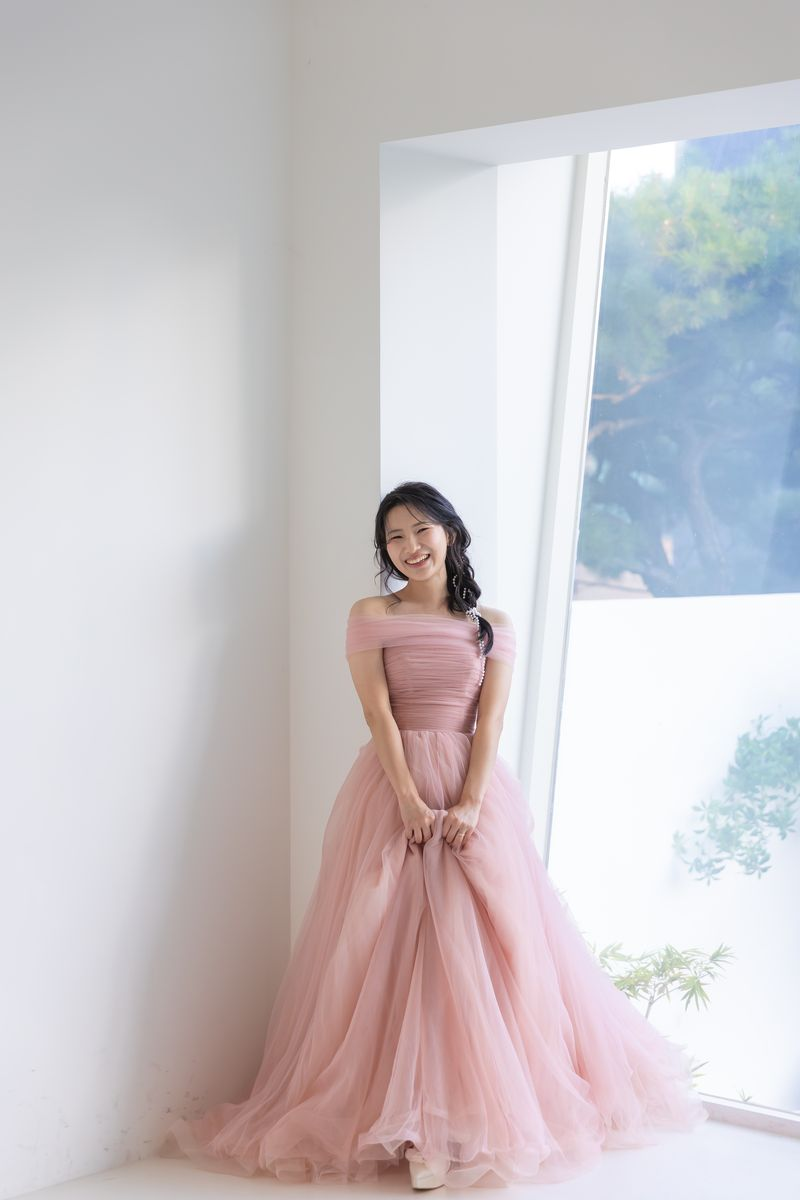
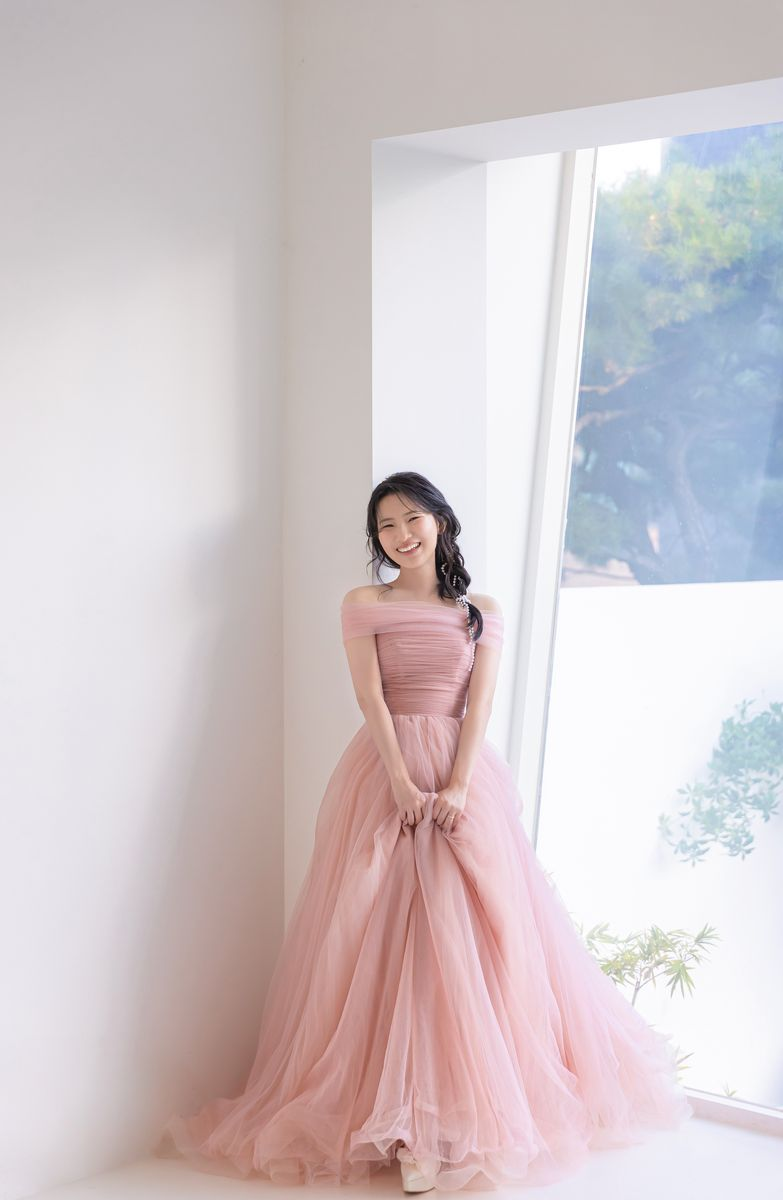
사진 COLOR2 보정본 적용, 계좌번호·소개글·참석 응답 연동 반영
- 메인 + 갤러리 23장을 COLOR2 보정본으로 교체, OG 썸네일 갱신
- 양가 계좌 6건 실제 번호 반영
- 신랑·신부 소개글 추가, 연락하기 섹션 제거
- 참석 여부(RSVP) 응답을 Apps Script 통해 구글 시트에 저장

diff --git a/index.html b/index.html
@@ -129,6 +129,11 @@ h2::after{content:""; display:block; width:40px; height:2px; background:var(--in
 .cast .name{font-family:var(--disp); font-size:30px; line-height:1.1; margin:8px 0 2px}
 .cast .krn{font-size:16px; font-weight:600; letter-spacing:.14em; text-indent:.14em}
 .cast small{display:block; font-size:12.5px; color:var(--ink-soft); margin-top:8px; line-height:1.7}
+.cast .intro{margin-top:26px; text-align:left; padding:0 4px}
+.cast .intro + .intro{margin-top:22px; padding-top:22px; border-top:1px dashed var(--line)}
+.cast .intro .who{font-family:var(--sans); font-weight:500; font-size:12px; color:var(--red); letter-spacing:.06em; margin-bottom:6px; line-height:1.4}
+.cast .intro .who::before{content:"❝"; font-family:var(--disp); font-size:16px; margin-right:6px; color:var(--red)}
+.cast .intro .txt{font-family:var(--sans); font-weight:300; font-size:14px; line-height:1.95; color:var(--ink); word-break:keep-all; text-wrap:pretty}
 
 /* ── screening (calendar) ── */
 .cal-head{font-family:var(--disp); font-size:34px; line-height:1; margin-bottom:6px}
@@ -365,7 +370,7 @@ footer .date{font-family:var(--cond); font-size:11px; letter-spacing:.3em; color
       </div>
     </div>
 
-    <!-- photos/main-zoom.jpg = 6R6A4831.jpg 1.25배 크롭 (전체 컷은 photos/main.jpg) -->
+    <!-- photos/main-zoom.jpg = COLOR2 보정본 6R6A4831 1.25배 크롭 -->
     <div class="screen">
       <img src="photos/main-zoom.jpg" alt="조한용 · 한세정">
       <p class="hand" aria-label="We're getting married">We're getting<br>married</p>
@@ -405,6 +410,14 @@ footer .date{font-family:var(--cond); font-size:11px; letter-spacing:.3em; color
         <small>한상득 · 유난미의<br>딸</small>
       </div>
     </div>
+    <div class="intro">
+      <p class="who">신부가 소개하는 신랑</p>
+      <p class="txt">제 신랑은 겉으로는 무심해 보여도, 알고 보면 언제나 저를 가장 먼저 생각해주는 따뜻한 사람이에요. 잔걱정이 많은 저와 달리 무던하고 묵묵하게 제 곁을 지키며 늘 든든한 중심이 되어주는 사람입니다. 언제든 의지할 수 있고, 함께 있으면 자연스럽게 웃게 되는 이 사람과 평생을 함께하려 합니다.</p>
+    </div>
+    <div class="intro">
+      <p class="who">신랑이 소개하는 신부</p>
+      <p class="txt">제 신부는 누가 봐도 귀엽고 여리지만, 사실 누구보다 똑 부러지는 사람이에요. 준비하고 계획하는 걸 잘해서, 덕분에 결혼 준비를 비롯한 여러 일들을 든든하게 해낼 수 있었습니다. 저만 있었다면… 생각만 해도 아찔하네요. 늘 배려심이 많고 저를 먼저 생각해주는 고마운 사람입니다. 함께하는 평범한 시간마저 소중하게 만들어주는 이 사람과 평생을 함께하려 합니다.</p>
+    </div>
   </section>
 
   <section class="screening reveal">
@@ -432,31 +445,31 @@ footer .date{font-family:var(--cond); font-size:11px; letter-spacing:.3em; color
   <section class="stills reveal">
     <p class="slug">Moments</p>
     <h2>미리 보는 장면들</h2>
-    <!-- photos/gallery-web/ = photos/Gallery/ 원본을 긴 변 1200px로 축소한 웹용 (이름순) -->
+    <!-- photos/gallery-web/ = photos/COLOR2/ 보정본을 긴 변 1200px로 축소한 웹용 (이름순) -->
     <div class="filmstrip"><div class="strip-inner">
-        <div class="cell port"><div class="img"><img src="photos/gallery-web/01.jpg" alt="" loading="lazy"></div><p class="cap"><span>SCENE 01</span><span>01 / 23</span></p></div>
-        <div class="cell port"><div class="img"><img src="photos/gallery-web/02.jpg" alt="" loading="lazy"></div><p class="cap"><span>SCENE 02</span><span>02 / 23</span></p></div>
-        <div class="cell port"><div class="img"><img src="photos/gallery-web/03.jpg" alt="" loading="lazy"></div><p class="cap"><span>SCENE 03</span><span>03 / 23</span></p></div>
-        <div class="cell port"><div class="img"><img src="photos/gallery-web/04.jpg" alt="" loading="lazy"></div><p class="cap"><span>SCENE 04</span><span>04 / 23</span></p></div>
-        <div class="cell land"><div class="img"><img src="photos/gallery-web/05.jpg" alt="" loading="lazy"></div><p class="cap"><span>SCENE 05</span><span>05 / 23</span></p></div>
-        <div class="cell land"><div class="img"><img src="photos/gallery-web/06.jpg" alt="" loading="lazy"></div><p class="cap"><span>SCENE 06</span><span>06 / 23</span></p></div>
-        <div class="cell land"><div class="img"><img src="photos/gallery-web/07.jpg" alt="" loading="lazy"></div><p class="cap"><span>SCENE 07</span><span>07 / 23</span></p></div>
-        <div class="cell port"><div class="img"><img src="photos/gallery-web/08.jpg" alt="" loading="lazy"></div><p class="cap"><span>SCENE 08</span><span>08 / 23</span></p></div>
-        <div class="cell port"><div class="img"><img src="photos/gallery-web/09.jpg" alt="" loading="lazy"></div><p class="cap"><span>SCENE 09</span><span>09 / 23</span></p></div>
-        <div class="cell land"><div class="img"><img src="photos/gallery-web/10.jpg" alt="" loading="lazy"></div><p class="cap"><span>SCENE 10</span><span>10 / 23</span></p></div>
-        <div class="cell port"><div class="img"><img src="photos/gallery-web/11.jpg" alt="" loading="lazy"></div><p class="cap"><span>SCENE 11</span><span>11 / 23</span></p></div>
-        <div class="cell port"><div class="img"><img src="photos/gallery-web/12.jpg" alt="" loading="lazy"></div><p class="cap"><span>SCENE 12</span><span>12 / 23</span></p></div>
-        <div class="cell land"><div class="img"><img src="photos/gallery-web/13.jpg" alt="" loading="lazy"></div><p class="cap"><span>SCENE 13</span><span>13 / 23</span></p></div>
-        <div class="cell port"><div class="img"><img src="photos/gallery-web/14.jpg" alt="" loading="lazy"></div><p class="cap"><span>SCENE 14</span><span>14 / 23</span></p></div>
-        <div class="cell port"><div class="img"><img src="photos/gallery-web/15.jpg" alt="" loading="lazy"></div><p class="cap"><span>SCENE 15</span><span>15 / 23</span></p></div>
-        <div class="cell port"><div class="img"><img src="photos/gallery-web/16.jpg" alt="" loading="lazy"></div><p class="cap"><span>SCENE 16</span><span>16 / 23</span></p></div>
-        <div class="cell port"><div class="img"><img src="photos/gallery-web/17.jpg" alt="" loading="lazy"></div><p class="cap"><span>SCENE 17</span><span>17 / 23</span></p></div>
-        <div class="cell port"><div class="img"><img src="photos/gallery-web/18.jpg" alt="" loading="lazy"></div><p class="cap"><span>SCENE 18</span><span>18 / 23</span></p></div>
-        <div class="cell port"><div class="img"><img src="photos/gallery-web/19.jpg" alt="" loading="lazy"></div><p class="cap"><span>SCENE 19</span><span>19 / 23</span></p></div>
-        <div class="cell port"><div class="img"><img src="photos/gallery-web/20.jpg" alt="" loading="lazy"></div><p class="cap"><span>SCENE 20</span><span>20 / 23</span></p></div>
-        <div class="cell port"><div class="img"><img src="photos/gallery-web/21.jpg" alt="" loading="lazy"></div><p class="cap"><span>SCENE 21</span><span>21 / 23</span></p></div>
-        <div class="cell port"><div class="img"><img src="photos/gallery-web/22.jpg" alt="" loading="lazy"></div><p class="cap"><span>SCENE 22</span><span>22 / 23</span></p></div>
-        <div class="cell port"><div class="img"><img src="photos/gallery-web/23.jpg" alt="" loading="lazy"></div><p class="cap"><span>SCENE 23</span><span>23 / 23</span></p></div>
+        <div class="cell"><div class="img"><img src="photos/gallery-web/01.jpg" alt="" loading="lazy"></div><p class="cap"><span>SCENE 01</span><span>01 / 23</span></p></div>
+        <div class="cell"><div class="img"><img src="photos/gallery-web/02.jpg" alt="" loading="lazy"></div><p class="cap"><span>SCENE 02</span><span>02 / 23</span></p></div>
+        <div class="cell"><div class="img"><img src="photos/gallery-web/03.jpg" alt="" loading="lazy"></div><p class="cap"><span>SCENE 03</span><span>03 / 23</span></p></div>
+        <div class="cell"><div class="img"><img src="photos/gallery-web/04.jpg" alt="" loading="lazy"></div><p class="cap"><span>SCENE 04</span><span>04 / 23</span></p></div>
+        <div class="cell"><div class="img"><img src="photos/gallery-web/05.jpg" alt="" loading="lazy"></div><p class="cap"><span>SCENE 05</span><span>05 / 23</span></p></div>
+        <div class="cell"><div class="img"><img src="photos/gallery-web/06.jpg" alt="" loading="lazy"></div><p class="cap"><span>SCENE 06</span><span>06 / 23</span></p></div>
+        <div class="cell"><div class="img"><img src="photos/gallery-web/07.jpg" alt="" loading="lazy"></div><p class="cap"><span>SCENE 07</span><span>07 / 23</span></p></div>
+        <div class="cell"><div class="img"><img src="photos/gallery-web/08.jpg" alt="" loading="lazy"></div><p class="cap"><span>SCENE 08</span><span>08 / 23</span></p></div>
+        <div class="cell"><div class="img"><img src="photos/gallery-web/09.jpg" alt="" loading="lazy"></div><p class="cap"><span>SCENE 09</span><span>09 / 23</span></p></div>
+        <div class="cell"><div class="img"><img src="photos/gallery-web/10.jpg" alt="" loading="lazy"></div><p class="cap"><span>SCENE 10</span><span>10 / 23</span></p></div>
+        <div class="cell"><div class="img"><img src="photos/gallery-web/11.jpg" alt="" loading="lazy"></div><p class="cap"><span>SCENE 11</span><span>11 / 23</span></p></div>
+        <div class="cell"><div class="img"><img src="photos/gallery-web/12.jpg" alt="" loading="lazy"></div><p class="cap"><span>SCENE 12</span><span>12 / 23</span></p></div>
+        <div class="cell"><div class="img"><img src="photos/gallery-web/13.jpg" alt="" loading="lazy"></div><p class="cap"><span>SCENE 13</span><span>13 / 23</span></p></div>
+        <div class="cell"><div class="img"><img src="photos/gallery-web/14.jpg" alt="" loading="lazy"></div><p class="cap"><span>SCENE 14</span><span>14 / 23</span></p></div>
+        <div class="cell"><div class="img"><img src="photos/gallery-web/15.jpg" alt="" loading="lazy"></div><p class="cap"><span>SCENE 15</span><span>15 / 23</span></p></div>
+        <div class="cell"><div class="img"><img src="photos/gallery-web/16.jpg" alt="" loading="lazy"></div><p class="cap"><span>SCENE 16</span><span>16 / 23</span></p></div>
+        <div class="cell"><div class="img"><img src="photos/gallery-web/17.jpg" alt="" loading="lazy"></div><p class="cap"><span>SCENE 17</span><span>17 / 23</span></p></div>
+        <div class="cell"><div class="img"><img src="photos/gallery-web/18.jpg" alt="" loading="lazy"></div><p class="cap"><span>SCENE 18</span><span>18 / 23</span></p></div>
+        <div class="cell"><div class="img"><img src="photos/gallery-web/19.jpg" alt="" loading="lazy"></div><p class="cap"><span>SCENE 19</span><span>19 / 23</span></p></div>
+        <div class="cell"><div class="img"><img src="photos/gallery-web/20.jpg" alt="" loading="lazy"></div><p class="cap"><span>SCENE 20</span><span>20 / 23</span></p></div>
+        <div class="cell"><div class="img"><img src="photos/gallery-web/21.jpg" alt="" loading="lazy"></div><p class="cap"><span>SCENE 21</span><span>21 / 23</span></p></div>
+        <div class="cell"><div class="img"><img src="photos/gallery-web/22.jpg" alt="" loading="lazy"></div><p class="cap"><span>SCENE 22</span><span>22 / 23</span></p></div>
+        <div class="cell"><div class="img"><img src="photos/gallery-web/23.jpg" alt="" loading="lazy"></div><p class="cap"><span>SCENE 23</span><span>23 / 23</span></p></div>
       </div></div>
     <p class="hint">◂ SWIPE ▸</p>
   </section>
@@ -483,13 +496,15 @@ footer .date{font-family:var(--cond); font-size:11px; letter-spacing:.3em; color
     <h2>마음 전하실 곳</h2>
     <details class="acct">
       <summary>신랑 측 계좌번호</summary>
-      <div class="acct-row"><span><span class="who">신랑 </span>조한용</span><span class="num">국민 123456-01-234567</span><button class="copy" data-num="국민 123456-01-234567">COPY</button></div>
-      <div class="acct-row"><span><span class="who">아버지 </span>조준호</span><span class="num">신한 110-234-567890</span><button class="copy" data-num="신한 110-234-567890">COPY</button></div>
+      <div class="acct-row"><span><span class="who">신랑 </span>조한용</span><span class="num">신한 110-446-442149</span><button class="copy" data-num="신한 110-446-442149">COPY</button></div>
+      <div class="acct-row"><span><span class="who">아버지 </span>조준호</span><span class="num">농협 235031-52-014161</span><button class="copy" data-num="농협 235031-52-014161">COPY</button></div>
+      <div class="acct-row"><span><span class="who">어머니 </span>서숙애</span><span class="num">신한 110-117-065369</span><button class="copy" data-num="신한 110-117-065369">COPY</button></div>
     </details>
     <details class="acct">
       <summary>신부 측 계좌번호</summary>
       <div class="acct-row"><span><span class="who">신부 </span>한세정</span><span class="num">농협 302-5113-7881-11</span><button class="copy" data-num="농협 302-5113-7881-11">COPY</button></div>
-      <div class="acct-row"><span><span class="who">어머니 </span>유난미</span><span class="num">우리 1002-345-678901</span><button class="copy" data-num="우리 1002-345-678901">COPY</button></div>
+      <div class="acct-row"><span><span class="who">아버지 </span>한상득</span><span class="num">농협 735089-52-096901</span><button class="copy" data-num="농협 735089-52-096901">COPY</button></div>
+      <div class="acct-row"><span><span class="who">어머니 </span>유난미</span><span class="num">농협 735089-52-102726</span><button class="copy" data-num="농협 735089-52-102726">COPY</button></div>
     </details>
   </section>
 
@@ -507,7 +522,7 @@ footer .date{font-family:var(--cond); font-size:11px; letter-spacing:.3em; color
     <div class="unit"><p class="u-role">Parents</p><p class="u-name">조준호 · 서숙애 · 한상득 · 유난미</p></div>
     <div class="unit"><p class="u-role">And</p><p class="u-name">이 자리에 함께해 주신 모든 분들</p></div>
     <p class="fin">fin.<small>and our story continues</small></p>
-    <p class="date">2027 . 02 . 27 · SEOUL · THE VER:G</p>
+    <p class="date">2027 . 02 . 27 · SEOUL · THE VERDE G</p>
   </footer>
 
 </div>
@@ -631,11 +646,11 @@ document.querySelectorAll('.screen .hand').forEach(el => {
   const pad = v => String(v + 1).padStart(2, '0');
   function show(i, d) {
     cur = (i + srcs.length) % srcs.length;
-    if (d) { img.classList.add(d > 0 ? 'out-r' : 'out-l'); }
+    if (d) { img.classList.add(d > 0 ? 'out-l' : 'out-r'); }
     setTimeout(() => {
       img.src = srcs[cur]; n.textContent = pad(cur); c.textContent = pad(cur) + ' / ' + String(srcs.length).padStart(2, '0');
       img.classList.remove('out-l', 'out-r');
-      img.classList.add(d > 0 ? 'out-l' : 'out-r'); void img.offsetWidth; img.classList.remove('out-l', 'out-r');
+      img.classList.add(d > 0 ? 'out-r' : 'out-l'); void img.offsetWidth; img.classList.remove('out-l', 'out-r');
       [cur - 1, cur + 1].forEach(k => { new Image().src = srcs[(k + srcs.length) % srcs.length]; }); // preload neighbours
     }, d ? 140 : 0);
   }
@@ -660,9 +675,13 @@ document.querySelectorAll('.screen .hand').forEach(el => {
 })();
 
 // ── RSVP ──
-// 저장처 연결 지점: 응답 객체 하나를 받아 true/false(Promise)를 돌려주면 됨 (Google 설문/Netlify Forms 등).
-// 지금은 서버로 보내지 않고 브라우저(localStorage)에만 남김.
+// 응답은 Apps Script 웹앱(업로드와 같은 것)을 통해 구글 시트에 한 줄씩 저장됨
+const RSVP_ENDPOINT = 'https://script.google.com/macros/s/AKfycbycAU2X3RP1imRu1audZI_Cn2r6yidfqGstQdEOmkGEr_f-HWyYWP5rfCPPG4PkRgFOXA/exec';
+const RSVP_KEY = 'hy-sj-0227';
 async function sendRSVP(data) {
+  const r = await fetch(RSVP_ENDPOINT, { method: 'POST', body: JSON.stringify({ action: 'rsvp', key: RSVP_KEY, data }) });
+  const j = await r.json();
+  if (j.error) throw new Error(j.error);
   try { localStorage.setItem('rsvp-data', JSON.stringify(data)); } catch (e) {}
   return true;
 }
@@ -734,10 +753,19 @@ async function sendRSVP(data) {
   if (Date.now() >= day || location.hash === '#upload') el.dataset.open = '1';
 })();
 
-// copy account numbers
+// copy account numbers — clipboard API 는 https 에서만 열리므로 http/인앱 브라우저용 예비 방식 포함
+async function copyText(t) {
+  try { if (navigator.clipboard && window.isSecureContext) { await navigator.clipboard.writeText(t); return true; } } catch (e) {}
+  try {
+    const ta = document.createElement('textarea'); ta.value = t; ta.setAttribute('readonly', '');
+    ta.style.cssText = 'position:fixed;top:0;left:0;opacity:0;font-size:16px'; document.body.appendChild(ta);
+    ta.focus(); ta.select(); ta.setSelectionRange(0, t.length);
+    const ok = document.execCommand('copy'); ta.remove(); return ok;
+  } catch (e) { return false; }
+}
 document.querySelectorAll('.copy').forEach(btn => btn.addEventListener('click', async () => {
-  try { await navigator.clipboard.writeText(btn.dataset.num); } catch (e) {}
-  const prev = btn.textContent; btn.textContent = 'COPIED';
+  const ok = await copyText(btn.dataset.num);
+  const prev = btn.textContent; btn.textContent = ok ? 'COPIED' : 'FAILED';
   setTimeout(() => btn.textContent = prev, 1200);
 }));
 </script>

diff --git a/upload.html b/upload.html
@@ -29,7 +29,7 @@ h1{font-family:var(--disp); font-size:34px; font-weight:400; line-height:1.1; te
 h1 i{font-style:italic; color:var(--red); font-size:.6em; display:inline-block; margin:0 6px}
 .kr{font-size:13px; letter-spacing:.28em; text-indent:.28em; color:var(--ink-soft); text-align:center; margin-top:8px}
 .lead{margin:34px 0 26px; text-align:center}
-.lead .hand{font-family:var(--hand); font-size:40px; color:var(--red); line-height:1; margin-bottom:12px}
+.lead .hand{font-family:var(--hand); font-size:40px; color:var(--red); line-height:1; margin-bottom:26px}
 .lead p{font-size:14.5px; line-height:2; text-wrap:balance}
 .lead p small{display:block; font-family:var(--sans); font-weight:300; font-size:12.5px; color:var(--ink-soft); margin-top:8px}
 
@@ -40,13 +40,13 @@ input[type=text]{width:100%; background:var(--card); border:1.5px solid var(--li
 input[type=text]:focus{border-color:var(--ink)}
 
 .drop{
-  border:1.5px dashed var(--ink); border-radius:12px; background:var(--card); padding:30px 18px; text-align:center; cursor:pointer;
+  display:block; border:1.5px dashed var(--ink); border-radius:12px; background:var(--card); padding:30px 18px; text-align:center; cursor:pointer;
   transition:background .15s;
 }
 .drop:active,.drop.over{background:var(--paper-deep)}
-.drop .ic{font-family:var(--disp); font-size:34px; line-height:1; color:var(--red)}
-.drop b{display:block; font-family:var(--sans); font-weight:500; font-size:15px; margin-top:10px}
-.drop small{display:block; font-family:var(--sans); font-weight:300; font-size:12px; color:var(--ink-soft); margin-top:4px}
+.drop .ic{display:block; font-family:var(--disp); font-size:34px; line-height:1; color:var(--red)}
+.drop b{display:block; font-family:var(--sans); font-weight:500; font-size:14.5px; margin-top:10px}
+.drop small{display:block; font-family:var(--sans); font-weight:300; font-size:11.5px; color:var(--ink-soft); margin-top:4px}
 .drop input{display:none}
 
 .list{margin-top:16px; display:grid; gap:8px}
@@ -68,12 +68,15 @@ input[type=text]:focus{border-color:var(--ink)}
 .note{margin-top:14px; font-family:var(--sans); font-weight:300; font-size:12px; color:var(--ink-soft); text-align:center; line-height:1.8}
 .msg{margin-top:12px; font-family:var(--sans); font-size:13px; color:var(--red); text-align:center; min-height:20px}
 
-.thanks{display:none; text-align:center; padding:40px 0 10px}
-.thanks .hand{font-family:var(--hand); font-size:56px; color:var(--red); line-height:1; margin-bottom:16px}
+.thanks{display:none; text-align:center; padding:26px 0 10px}
 .thanks p{font-size:14.5px; line-height:2}
 .thanks button{margin-top:22px; padding:12px 22px; border:1.5px solid var(--ink); background:none; border-radius:999px; font-family:var(--sans); font-size:13px; cursor:pointer; color:var(--ink)}
 .sheet.finished form{display:none} .sheet.finished .thanks{display:block}
 
+.kakao{display:none; margin:0 0 16px; padding:14px 16px; border:1.5px solid var(--red); border-radius:10px; background:#FCF3F1; font-family:var(--sans); font-size:13px; line-height:1.7; text-align:center}
+.kakao b{font-weight:500}
+.kakao a{display:inline-block; margin-top:8px; padding:10px 18px; background:var(--red); color:#FBF8F1; text-decoration:none; border-radius:999px; font-weight:500; font-size:13px}
+body.in-kakao .kakao{display:block}
 footer{margin-top:60px; text-align:center; font-family:var(--cond); font-size:10.5px; letter-spacing:.3em; color:var(--ink-soft)}
 </style>
 </head>
@@ -85,9 +88,13 @@ footer{margin-top:60px; text-align:center; font-family:var(--cond); font-size:10
 
   <div class="lead">
     <p class="hand">Thank you</p>
-    <p>오늘 담아주신 사진과 영상을<br>저희에게 나눠주세요.<small>원본 그대로 저희 보관함에 전달됩니다 · 로그인 필요 없음</small></p>
+    <p>오늘 담아주신 사진과 영상을<br>저희에게 나눠주세요.</p>
   </div>
 
+  <div class="kakao">
+    카카오톡 안에서는 갤러리 선택이 안 될 수 있어요.<br><b>기본 브라우저로 열면</b> 갤러리에서 바로 고를 수 있습니다.
+    <br><a id="ext" href="#">브라우저로 열기</a>
+  </div>
   <form id="form" novalidate>
     <div class="f">
       <label class="l" for="guest">보내는 분 <em>선택 · 파일 이름 앞에 붙습니다</em></label>
@@ -98,7 +105,7 @@ footer{margin-top:60px; text-align:center; font-family:var(--cond); font-size:10
         <span class="ic">+</span>
         <b>사진 · 영상 선택</b>
         <small>여러 개를 한 번에 고를 수 있어요</small>
-        <input type="file" id="files" multiple accept="image/*,video/*">
+        <input type="file" class="files" multiple accept="image/*,video/*">
       </label>
     </div>
     <div class="list" id="list"></div>
@@ -109,12 +116,11 @@ footer{margin-top:60px; text-align:center; font-family:var(--cond); font-size:10
   </form>
 
   <div class="thanks" id="thanks">
-    <p class="hand">Thank you</p>
     <p>소중한 장면들이 잘 전달되었습니다.<br>함께해 주셔서 감사합니다.</p>
     <button type="button" id="more">더 보내기</button>
   </div>
 
-  <footer>2027 . 02 . 27 · THE VER:G</footer>
+  <footer>2027 . 02 . 27 · THE VERDE G</footer>
 </div>
 
 <script>
@@ -122,13 +128,20 @@ footer{margin-top:60px; text-align:center; font-family:var(--cond); font-size:10
 const CONFIG = {
   SCRIPT_URL: 'https://script.google.com/macros/s/AKfycbycAU2X3RP1imRu1audZI_Cn2r6yidfqGstQdEOmkGEr_f-HWyYWP5rfCPPG4PkRgFOXA/exec',
   KEY: 'hy-sj-0227',
-  CHUNK: 8 * 1024 * 1024                        // 8MB (256KB 의 배수여야 함)
+  CHUNK: 32 * 1024 * 1024,                      // 직접 전송 청크 32MB (256KB 의 배수)
+  PROXY_CHUNK: 8 * 1024 * 1024,                 // Apps Script 경유 시 8MB
+  PARALLEL: 3                                   // 동시에 올리는 파일 수
 };
 // QR 링크에 ?k=키 를 붙이면 그 값을 우선 사용 (코드에 키를 안 남기고 싶을 때)
 const KEY = new URLSearchParams(location.search).get('k') || CONFIG.KEY;
 
 const $ = id => document.getElementById(id);
-const list = $('list'), sum = $('sum'), go = $('go'), msg = $('msg'), input = $('files'), drop = $('drop');
+// 카카오톡 인앱 브라우저: 파일 선택창에 갤러리가 없음 → 외부 브라우저로 여는 안내
+if (/KAKAOTALK/i.test(navigator.userAgent)) {
+  document.body.classList.add('in-kakao');
+  $('ext').href = 'kakaotalk://web/openExternal?url=' + encodeURIComponent(location.href);
+}
+const list = $('list'), sum = $('sum'), go = $('go'), msg = $('msg'), inputs = document.querySelectorAll('.files'), drop = $('drop');
 let queue = [];   // {file, el, bar, st, status}
 
 const fmt = b => b >= 1e9 ? (b / 1e9).toFixed(2) + ' GB' : b >= 1e6 ? (b / 1e6).toFixed(1) + ' MB' : Math.max(1, Math.round(b / 1e3)) + ' KB';
@@ -161,7 +174,7 @@ function refresh() {
   sum.textContent = pending.length ? `${pending.length} FILES · ${fmt(total)}` : '';
   go.disabled = !pending.length; msg.textContent = '';
 }
-input.addEventListener('change', () => { addFiles(input.files); input.value = ''; });
+inputs.forEach(input => input.addEventListener('change', () => { addFiles(input.files); input.value = ''; }));
 ['dragenter', 'dragover'].forEach(t => drop.addEventListener(t, e => { e.preventDefault(); drop.classList.add('over'); }));
 ['dragleave', 'drop'].forEach(t => drop.addEventListener(t, e => { e.preventDefault(); drop.classList.remove('over'); }));
 drop.addEventListener('drop', e => addFiles(e.dataTransfer.files));
@@ -175,29 +188,44 @@ async function api(body) {
 }
 const toB64 = blob => new Promise((res, rej) => { const fr = new FileReader(); fr.onload = () => res(fr.result.split(',')[1]); fr.onerror = rej; fr.readAsDataURL(blob); });
 
-// ── 한 파일 업로드: 세션 개설 → 청크 전송 (직접 PUT, 실패 시 Apps Script 경유) ──
+// ── 업로드: 세션을 한 번에 개설 → 파일 3개씩 병렬 → 청크 전송 (직접 PUT, 실패 시 Apps Script 경유) ──
 let mode = 'direct';
-async function uploadOne(q, guest) {
+function putDirect(url, blob, start, end, total, onProg) {   // XHR: 진행률 이벤트를 받기 위해
+  return new Promise((res, rej) => {
+    const x = new XMLHttpRequest(); x.open('PUT', url);
+    x.setRequestHeader('Content-Range', `bytes ${start}-${end}/${total}`);
+    x.upload.onprogress = e => { if (e.lengthComputable) onProg(start + e.loaded); };
+    x.onload = () => (x.status === 308 || (x.status >= 200 && x.status < 300)) ? res() : rej(new Error('status ' + x.status));
+    x.onerror = () => rej(new Error('network')); x.send(blob);
+  });
+}
+async function uploadOne(q, url) {
   const f = q.file;
-  const init = await api({ action: 'init', key: KEY, name: f.name, mime: f.type, size: f.size, guest, origin: location.origin });
-  const url = init.uploadUrl, CH = CONFIG.CHUNK;
-  for (let start = 0; start < f.size; start += CH) {
+  const prog = sent => { const p = Math.min(100, Math.round(sent / f.size * 100)); q.bar.style.width = p + '%'; q.st.textContent = p + '%'; };
+  for (let start = 0; start < f.size;) {
+    const CH = mode === 'direct' ? CONFIG.CHUNK : CONFIG.PROXY_CHUNK;
     const end = Math.min(start + CH, f.size) - 1, blob = f.slice(start, end + 1);
     let ok = false;
     if (mode === 'direct') {
-      try {
-        const r = await fetch(url, { method: 'PUT', headers: { 'Content-Range': `bytes ${start}-${end}/${f.size}` }, body: blob });
-        ok = r.status === 308 || r.ok;
-        if (!ok) throw new Error('status ' + r.status);
-      } catch (e) { mode = 'proxy'; }          // CORS 등으로 직접 전송이 안 되면 이후는 경유 모드
+      try { await putDirect(url, blob, start, end, f.size, prog); ok = true; }
+      catch (e) { mode = 'proxy'; continue; }          // 청크 크기를 바꿔 같은 위치부터 경유 모드로 재시도
     }
     if (!ok) {
       const r = await api({ action: 'chunk', key: KEY, uploadUrl: url, start, end, total: f.size, data: await toB64(blob) });
       if (!(r.code === 308 || r.done)) throw new Error('chunk ' + r.code);
     }
-    q.bar.style.width = Math.round((end + 1) / f.size * 100) + '%';
-    q.st.textContent = Math.round((end + 1) / f.size * 100) + '%';
+    prog(end + 1); start = end + 1;
   }
+}
+async function openSessions(items, guest) {   // 여러 파일의 업로드 URL 을 한 번의 호출로
+  try {
+    const r = await api({ action: 'init-batch', key: KEY, guest, origin: location.origin,
+                          files: items.map(q => ({ name: q.file.name, mime: q.file.type, size: q.file.size })) });
+    if (r.items && r.items.length === items.length) return r.items.map(i => i.uploadUrl || null);
+  } catch (e) { /* 구버전 서버면 아래에서 하나씩 */ }
+  const out = [];
+  for (const q of items) { try { out.push((await api({ action: 'init', key: KEY, name: q.file.name, mime: q.file.type, size: q.file.size, guest, origin: location.origin })).uploadUrl); } catch (e) { out.push(null); } }
+  return out;
 }
 
 $('form').addEventListener('submit', async e => {
@@ -206,12 +234,18 @@ $('form').addEventListener('submit', async e => {
   const guest = $('guest').value.trim();
   go.disabled = true; go.textContent = '보내는 중…'; msg.textContent = '';
   let fail = 0;
-  for (const q of queue) {
-    if (q.status === 'done') continue;
-    q.status = 'up'; q.el.classList.remove('err'); q.st.textContent = '0%';
-    try { await uploadOne(q, guest); q.status = 'done'; q.el.classList.add('done'); q.st.textContent = '완료'; }
-    catch (err) { q.status = 'err'; q.el.classList.add('err'); q.st.textContent = '실패'; fail++; console.error(err); }
+  const items = queue.filter(q => q.status !== 'done');
+  items.forEach(q => { q.status = 'up'; q.el.classList.remove('err'); q.st.textContent = '준비'; });
+  const urls = await openSessions(items, guest);
+  let i = 0;
+  async function worker() {
+    while (i < items.length) {
+      const k = i++, q = items[k], url = urls[k];
+      try { if (!url) throw new Error('no session'); await uploadOne(q, url); q.status = 'done'; q.el.classList.add('done'); q.st.textContent = '완료'; }
+      catch (err) { q.status = 'err'; q.el.classList.add('err'); q.st.textContent = '실패'; fail++; console.error(err); }
+    }
   }
+  await Promise.all(Array.from({ length: Math.min(CONFIG.PARALLEL, items.length) }, worker));
   go.textContent = '보내기';
   if (fail) { msg.textContent = `${fail}개가 전송되지 않았습니다. 다시 '보내기'를 눌러 주세요.`; go.disabled = false; }
   else { $('sheet').classList.add('finished'); window.scrollTo(0, 0); }
